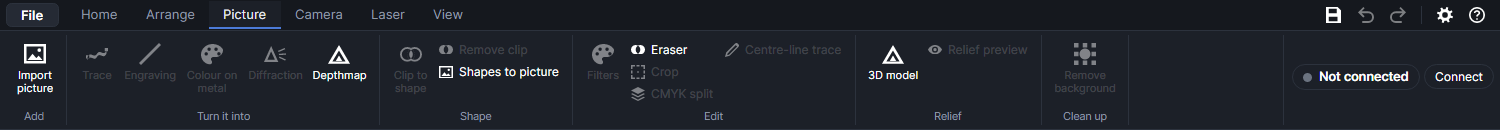
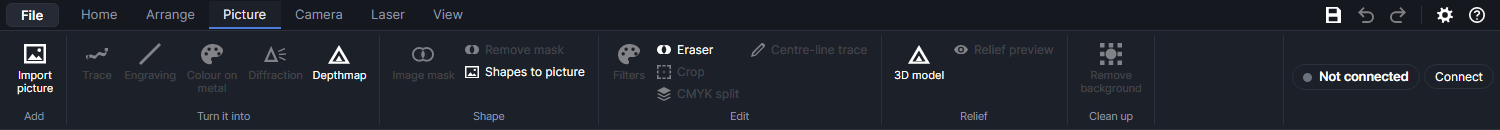
Image mask: only the masked part has to fit; pictures drawn under lines
"Clip to shape" is now "Image mask" (and "Remove mask"). A masked picture
in turned rows couldn't be sent: the check tested the corners of the turned
dot grid, which reach far past the masked part. It now checks each row's
first and last burned dot, where the head actually goes, and the frame keeps
to the masked part. The Selection panel's outside-the-work-area warning also
counts only the masked part.

Pictures are drawn under every line and shape, whatever their layer, and a
click on a line over a picture picks the line.

diff --git a/src/PhotonCanvas.App/MainWindow.axaml.cs b/src/PhotonCanvas.App/MainWindow.axaml.cs
@@ -633,8 +633,8 @@ public partial class MainWindow : Window
         _ribbon.ShowWhen(pwork.Large("Diffraction", "IcPrism", () => { if (SelectedPicture() is { } im) _ = Guard(() => MakeDiffraction(im)); }, "Turn the picture into tiny diffraction gratings (MOPA on polished stainless): it shimmers with rainbow colours as it tilts", HasPicture), () => _settings.ShowDiffraction);
         pwork.Large("Depthmap", "IcDepth", () => _ = Guard(() => MakeDepthmap(SelectedPicture())), "Make a relief depthmap with DepthCharge (select a picture first, or pick a file)");
         var pclip = picture.Group("Shape");
-        pclip.Large("Clip to shape", "IcIntersect", ClipPicture, "Select a picture and a closed shape: only the part of the picture inside it is shown and engraved", () => SelectedPicture() is not null || _doc.State.Shapes.Any(s => _doc.Selection.Contains(s.Id) && s is ImageShape));
-        pclip.Small("Remove clip", "IcExclude", () => { if (SelectedPicture() is { Clip: not null } im) _doc.Commit("Remove clip", Ops.Replace(_doc.State, im.WithClip(null)), [im.Id]); }, "Show and engrave the whole picture again", () => SelectedPicture() is { Clip: not null });
+        pclip.Large("Image mask", "IcIntersect", ClipPicture, "Select a picture and a closed shape: the shape masks the picture, so only the part inside it is shown and engraved", () => SelectedPicture() is not null || _doc.State.Shapes.Any(s => _doc.Selection.Contains(s.Id) && s is ImageShape));
+        pclip.Small("Remove mask", "IcExclude", () => { if (SelectedPicture() is { Clip: not null } im) _doc.Commit("Remove image mask", Ops.Replace(_doc.State, im.WithClip(null)), [im.Id]); }, "Take the image mask off: the whole picture is shown and engraved again", () => SelectedPicture() is { Clip: not null });
         var pedit = picture.Group("Edit");
         pedit.Large("Filters", "IcPalette", () => { if (SelectedPicture() is { } im) _ = Guard(() => FilterPicture(im)); }, "Greyscale, saturation, pencil sketch, emboss, comic, black and white, mosaic", HasPicture);
         ToolSmall(pedit, "Eraser", "IcExclude", Tool.Eraser, "Rub out parts of a picture by dragging over them (they turn white and aren't engraved)");
@@ -2006,14 +2006,14 @@ public partial class MainWindow : Window
         StatusText.Text = "The text follows the path. Alignment picks the start, middle or end; the path itself is still there (delete it or turn its layer's output off if it shouldn't be marked).";
     }
 
-    /// <summary>A picture and a closed shape selected: the picture is clipped to the shape (the shape stays, as a guide).</summary>
+    /// <summary>A picture and a closed shape selected: the shape becomes the picture's image mask (the shape stays, as a guide).</summary>
     void ClipPicture()
     {
         var sel = _doc.State.Shapes.Where(s => _doc.Selection.Contains(s.Id)).ToList();
         var pic = sel.OfType<ImageShape>().FirstOrDefault();
         var outline = sel.OfType<PathShape>().FirstOrDefault(p => p.World.Subpaths.Any(sp => sp.Closed));
         if (pic is null || outline is null) { StatusText.Text = "Select a picture and the closed shape to clip it to."; return; }
-        _doc.Commit("Clip picture", Ops.Replace(_doc.State, pic.WithClip(new Doc.PathGeometry(outline.World.Subpaths.Where(sp => sp.Closed)))), [pic.Id]);
+        _doc.Commit("Image mask", Ops.Replace(_doc.State, pic.WithClip(new Doc.PathGeometry(outline.World.Subpaths.Where(sp => sp.Closed)))), [pic.Id]);
         StatusText.Text = "Clipped: only the part inside the shape is engraved. The shape is still there (delete it or turn its layer's output off if it shouldn't be marked).";
     }
 

diff --git a/src/PhotonCanvas.App/CanvasView.cs b/src/PhotonCanvas.App/CanvasView.cs
@@ -474,6 +474,11 @@ public sealed partial class CanvasView : Control
         var selected = doc.Selection;
         var viewWorld = new Rect2(ToWorld(new Point(0, 0)).X, ToWorld(new Point(0, 0)).Y, ToWorld(new Point(Bounds.Width, Bounds.Height)).X, ToWorld(new Point(Bounds.Width, Bounds.Height)).Y);
         UpdateBatches(doc);
+        // Pictures first, whatever their layer: every line and shape shows on top of them, so a
+        // picture can be lined up with the outlines under it.
+        foreach (var shape in doc.State.Shapes)
+            if (shape is ImageShape im && layers.TryGetValue(im.LayerId, out var picLayer) && picLayer.Visible && im.Bounds.Intersects(viewWorld))
+                DrawPicture(ctx, im, picLayer, selected.Contains(im.Id), _hover == im.Id || _highlight == im.Id, px);
         foreach (var (id, chunks) in _batches)
         {
             if (!layers.TryGetValue(id, out var layer) || !layer.Visible) continue;
@@ -502,11 +507,6 @@ public sealed partial class CanvasView : Control
                         ctx.DrawGeometry(null, new Pen(new SolidColorBrush(Color.FromArgb(150, AccentColor.R, AccentColor.G, AccentColor.B)), 5 * px), hg);
                     ctx.DrawGeometry(null, new Pen(new SolidColorBrush(LayerColor(layer)), 2 * px), hg);
                 }
-                continue;
-            }
-            if (shape is ImageShape im)
-            {
-                if (im.Bounds.Intersects(viewWorld)) DrawPicture(ctx, im, layer, selected.Contains(im.Id), _hover == im.Id || _highlight == im.Id, px);
                 continue;
             }
             if (shape is not PathShape ps) continue;
@@ -825,16 +825,18 @@ public sealed partial class CanvasView : Control
         var w = ToWorld(screen);
         double tol = 5 / _scale;
         var layers = _doc.State.Layers.ToDictionary(l => l.Id);
-        // Topmost first; selected shapes win ties so a selection is easy to drag.
-        Shape? hit = null;
+        // Topmost first, pictures under everything else (as drawn); selected shapes win ties so a
+        // selection is easy to drag.
+        Shape? hit = null, picture = null;
         foreach (var s in _doc.State.Shapes.Reverse())
         {
             if (!layers.TryGetValue(s.LayerId, out var l) || !l.Visible || l.Locked || s.Locked) continue;
             if (!s.HitTest(w, tol, insideCounts: l.Mode == LayerMode.Fill)) continue;
             if (_doc.Selection.Contains(s.Id)) return s;
-            hit ??= s;
+            if (s is ImageShape) picture ??= s;
+            else hit ??= s;
         }
-        return hit;
+        return hit ?? picture;
     }
 
     /// <summary>0–7 = scale handles (clockwise from top-left), 8 = rotate, -1 = none.</summary>

diff --git a/src/PhotonCanvas.Core/GCode.cs b/src/PhotonCanvas.Core/GCode.cs
@@ -373,6 +373,24 @@ public sealed record DotBlock(
     /// <summary>The block a pass burns (see <see cref="PassBlocks"/>).</summary>
     public DotBlock ForPass(int pass) => PassBlocks is { Count: > 0 } pb && pass >= 1 ? pb[(pass - 1) % pb.Count] : this;
 
+    /// <summary>
+    /// The first and last burned dot of every row. The head only goes to burned dots, so
+    /// everything it visits lies between these (a grid turned to an angle has corners far
+    /// outside the picture that it never goes near).
+    /// </summary>
+    public IEnumerable<Vec2> RowEnds()
+    {
+        int w = Bitmap.Width;
+        for (int r = 0; r < Bitmap.Height; r++)
+        {
+            int first = Array.IndexOf(Bitmap.Bits, true, r * w, w);
+            if (first < 0) continue;
+            int last = Array.LastIndexOf(Bitmap.Bits, true, r * w + w - 1, w);
+            yield return At(first - r * w, r);
+            if (last != first) yield return At(last - r * w, r);
+        }
+    }
+
     /// <summary>Where dot (column, row) is on the bed.</summary>
     public Vec2 At(int c, int r)
     {
@@ -580,15 +598,9 @@ public sealed class Job
                         throw new JobException("The grey levels do not match the bitmap size.");
                     if (!b.Origin.IsFinite) throw new JobException("Bitmap position is not a valid number.");
                     double pitch = 25.4 / b.Dpi;
-                    // The corners of the pixel grid bound every dot.
-                    if (b.Bitmap.Width > 0 && b.Bitmap.Height > 0)
-                    {
-                        foreach (var pb in b.PassBlocks ?? [b])
-                        {
-                            int w = pb.Bitmap.Width - 1, h = pb.Bitmap.Height - 1;
-                            foreach (var corner in new[] { pb.At(0, 0), pb.At(w, 0), pb.At(0, h), pb.At(w, h) }) CheckPoint(corner, ctx);
-                        }
-                    }
+                    // Each row's first and last burned dot bound every dot the head goes to.
+                    foreach (var pb in b.PassBlocks ?? [b])
+                        foreach (var end in pb.RowEnds()) CheckPoint(end, ctx);
                     anyMotion |= b.Bitmap.Bits.Any(v => v);
                     break;
             }

diff --git a/tests/PhotonCanvas.Tests/PieceSplitTests.cs b/tests/PhotonCanvas.Tests/PieceSplitTests.cs
@@ -130,6 +130,32 @@ public class PieceSplitTests
     }
 
     [Fact]
+    public void AClippedPictureInTurnedRowsStillFitsTheWorkArea()
+    {
+        // Rows at 37°, turned 37° more each pass: the turned grid's corners reach far past the board
+        // (above the work area), but the head only goes to dots on the board.
+        var (s, pieces, art, _, _) = FourBoards();
+        var plain = Layer.Default(2, LayerMode.Image);
+        var picLayer = plain with { Name = "Photo", Dpi = 100, FillAngleDeg = 37, AngleStepDeg = 37, Laser = plain.Laser with { Passes = 3 } };
+        s = Ops.AddLayer(s, picLayer);
+        var px = new byte[8 * 4 * 4];
+        for (int i = 0; i < px.Length; i += 4) { px[i] = px[i + 1] = px[i + 2] = 40; px[i + 3] = 255; }
+        var photo = new ImageShape { Name = "Photo", LayerId = picLayer.Id, Source = ImageSource.FromEncoded(new Core.Imaging.RasterImage(8, 4, px).ToPng()), SizeMm = new Vec2(400, 150) };
+        s = Ops.AddShapes(s, [photo]);
+        var r = PieceSplit.Split(s, pieces, new HashSet<Guid>(art) { photo.Id }, 220, 220);
+        for (int k = 1; k <= 4; k++)
+        {
+            var page = Pages.SwitchTo(r.State, k);
+            page = page with { Layers = [.. page.Layers.Select(l => l with { Output = l.Name == "Photo" })] };
+            var board = MaterialOutline.On(page).Single().Bounds;
+            var built = JobBuilder.Build(page, new JobOptions());
+            var dots = Assert.IsType<DotBlock>(Assert.Single(built.Job.Blocks));
+            Assert.Equal(3, dots.PassBlocks!.Count);
+            Assert.True(board.Inflate(1.5).Contains(built.Bounds), $"piece {k}: framed {built.Bounds}, board {board}");
+        }
+    }
+
+    [Fact]
     public void PiecesAreReadRowByRow()
     {
         var s = DocState.New();

diff --git a/src/PhotonCanvas.App/PropertiesPanel.cs b/src/PhotonCanvas.App/PropertiesPanel.cs
@@ -391,7 +391,8 @@ public sealed class PropertiesPanel : UserControl
 
         // Only what's sent has to be on the bed (material outlines, other pieces and guides may hang off it).
         var sentIds = _doc.State.Shapes.Where(s => sel.Contains(s.Id) && _doc.State.FindLayer(s.LayerId) is { Output: true }).Select(s => s.Id).ToHashSet();
-        var sb = _doc.State.Bounds(sentIds);
+        // A masked picture only has to fit where it shows.
+        var sb = _doc.State.Shapes.Where(s => sentIds.Contains(s.Id)).Aggregate(Rect2.Empty, (r, s) => r.Union(s is ImageShape im ? im.ShownBounds : s.Bounds));
         bool outside = sentIds.Count > 0 && (sb.MinX < -1e-6 || sb.MinY < -1e-6 || sb.MaxX > _machine.FieldW + 1e-6 || sb.MaxY > _machine.FieldH + 1e-6);
         _selInfo.Text = (sel.Count == 1 ? "1 shape selected" : $"{sel.Count} shapes selected") +
                         (outside ? ". ⚠ Partly outside the work area – it can't be sent like this." : ".");

diff --git a/src/PhotonCanvas.Doc/JobBuilder.cs b/src/PhotonCanvas.Doc/JobBuilder.cs
@@ -819,6 +819,12 @@ public static class JobBuilder
             }
         });
         var area = Rect2.Bounds([Pos(0, 0), Pos(cols - 1, 0), Pos(0, rows - 1), Pos(cols - 1, rows - 1)]);
+        if (angleDeg != 0)
+        {
+            // A turned grid's box reaches well past the picture; only the part it shows is framed.
+            var shown = b.Inflate(pitch);
+            area = new Rect2(Math.Max(area.MinX, shown.MinX), Math.Max(area.MinY, shown.MinY), Math.Min(area.MaxX, shown.MaxX), Math.Min(area.MaxY, shown.MaxY));
+        }
         if (tone.Sharpen > 0) Core.Imaging.Dither.Sharpen(grey, cols, rows, tone.Sharpen, Math.Max(1, (int)Math.Round(tone.SharpenRadiusMm / pitch)));
         var bitmap = new Bitmap(cols, rows);
         if (layer.ImageMode == ImageEngraveMode.Grayscale)

diff --git a/docs/help/pictures.md b/docs/help/pictures.md
@@ -11,13 +11,13 @@ carved as a relief.
 
 The tab's name turns blue when exactly one picture is selected (click it on the work area or in the
 Layers panel). Buttons that work on a picture stay grey until then. A picture selected together with
-other shapes doesn't count, except for **Clip to shape**.
+other shapes doesn't count, except for **Image mask**.
 
 | Group | Buttons |
 |---|---|
 | Add | [Import picture](#import-a-picture) |
 | Turn it into | [Trace](#trace), [Engraving](#engraving-lines), [Colour on metal](#colour-on-metal), [Diffraction](#diffraction), [Depthmap](#depthmap-with-depthcharge) |
-| Shape | [Clip to shape](#clip-to-shape), [Remove clip](#clip-to-shape), [Shapes to picture](#shapes-to-picture) |
+| Shape | [Image mask](#image-mask), [Remove mask](#image-mask), [Shapes to picture](#shapes-to-picture) |
 | Edit | [Filters](#filters), [Eraser](#eraser), [Crop](#crop), [CMYK split](#cmyk-split), [Centre-line trace](#centre-line-trace) |
 | Relief | [3D model](#3d-model-relief), [Relief preview](#relief-preview) |
 | Clean up | [Remove background](#remove-background) |
@@ -419,24 +419,28 @@ layer's settings. The window can stay open while you work.
 
 ![The Relief preview window](images/window-picture-relief-preview.png)
 
-## Clip to shape
+## Image mask
 
-**Clip to shape** shows and engraves only the part of a picture inside a closed shape: a photo in a
-circle, a heart, a frame.
+**Image mask** shows and engraves only the part of a picture inside a closed shape: a photo in a
+circle, a heart, a frame. The picture itself isn't changed.
 
 1. Draw or import the closed shape over the picture.
 2. Select the picture and the shape together (`Shift`+click).
-3. Click **Clip to shape**.
+3. Click **Image mask**.
 
-- The clip moves, resizes and turns with the picture, and survives filters, crop and the eraser.
-- Holes in the shape stay holes in the picture. A new clip replaces the old one.
+- The mask moves, resizes and turns with the picture, and survives filters, crop and the eraser.
+- Holes in the shape stay holes in the picture. A new mask replaces the old one.
+- Only the masked part has to fit the work area: the rest of the picture can hang outside it, even
+  when its rows are turned to an angle (**Split onto pieces** relies on this).
+- Pictures are always drawn under lines and shapes, so the outline you line a picture up with stays
+  in sight.
 - The shape itself stays, as a guide. Delete it, or turn its layer's output off, if it shouldn't be
   marked.
 - The picture's own engraving (dots or depth slices) and **Engraving** lines follow the clip.
   **Trace**, **Centre-line trace**, **Colour on metal**, **Diffraction**, **Depthmap** and **CMYK
   split** use the whole picture.
 
-**Remove clip** shows and engraves the whole picture again (select the clipped picture first).
+**Remove mask** shows and engraves the whole picture again (select the masked picture first).
 
 ## Shapes to picture
 
@@ -515,7 +519,7 @@ elsewhere. Each goes on its own new Picture layer (**Cyan ·**, **Magenta ·**, 
   pause between ([Work area](work-area.md)).
 - The plates are made from the picture as its tone settings show it: **Brightness**, **Contrast**,
   **Gamma** and **Invert** are applied to the colours first, so each plate starts with those at
-  their defaults. **Sharpen** is copied onto each plate, and a clip ([Clip to shape](#clip-to-shape))
+  their defaults. **Sharpen** is copied onto each plate, and an image mask ([Image mask](#image-mask))
   is kept. The original picture stays; turn its layer's output off.
 
 ## Remove background

diff --git a/docs/help/canvas.md b/docs/help/canvas.md
@@ -13,10 +13,13 @@ is on [Drawing](drawing.md); changing their outlines (weld, offset, trim…) is 
 - The rulers along the top and left show where you are. A blue mark on each follows the cursor,
   and the status bar shows the cursor's exact position.
 - Shapes can sit on the darker surround outside the field, but a job with anything outside the
-  field can't be sent: the Selection panel warns "⚠ Partly outside the work area".
+  field can't be sent: the Selection panel warns "⚠ Partly outside the work area". A picture with
+  an [image mask](pictures.md#image-mask) only counts where it shows.
 - Each shape is drawn in its layer's colour. Shapes on **Engrave** layers are tinted inside.
   Layers that aren't sent to the laser (output off) are drawn faded; hidden layers aren't drawn.
   The shape under the cursor is drawn a little thicker.
+- Pictures are drawn under everything else, whatever their layer: lines and shapes always show on
+  top, so a picture can be lined up with them.
 - The selection has a dashed blue box with eight square handles, a round handle above it for
   turning, and its size underneath, for example "140 × 100 mm".
 
@@ -71,8 +74,8 @@ The Select tool (Home → **Select**, `V`) is the one you use most: it selects, 
 turns. `Esc` in any other tool brings you back to it.
 
 - **Click** a shape to select it. Click on its outline; on an Engrave layer, and on a picture,
-  anywhere inside counts too. Where shapes overlap the top one is picked, but an already selected
-  shape wins, so a selection is easy to drag.
+  anywhere inside counts too. Where shapes overlap the top one is picked (a line over a picture
+  beats the picture), but an already selected shape wins, so a selection is easy to drag.
 - A shape that's in a group brings its whole group. Hold `Alt` while clicking to pick just that
   one shape.
 - `Shift`+click adds a shape to the selection, or takes it out.

diff --git a/docs/help/tutorials/pic-clip.md b/docs/help/tutorials/pic-clip.md
@@ -1,25 +1,26 @@
-# Clip a picture to a shape
+# Mask a picture with a shape
 <!-- category: Pictures -->
-<!-- summary: Show and engrave only the part of a picture inside a closed shape. -->
-<!-- page: pictures.md#clip-to-shape -->
+<!-- summary: An image mask: show and engrave only the part of a picture inside a closed shape. -->
+<!-- page: pictures.md#image-mask -->
 <!-- order: 90 -->
-Clipping keeps a picture inside a shape, such as a photo in a circle or a heart, without changing
-the picture itself. The clip can be taken off again at any time.
+An image mask keeps a picture inside a shape, such as a photo in a circle or a heart, without
+changing the picture itself. The mask can be taken off again at any time.
 
 ## Put a shape over a picture
 <!-- target: canvas -->
 Draw a closed shape over a picture (Home tab). No picture yet? **Picture → Import picture**
-(`Ctrl+J`).
+(`Ctrl+J`). The shape's outline shows on top of the picture, so you can see where it goes.
 
 ## Select both
 <!-- target: canvas -->
 <!-- wait: selection:2 -->
 Click the picture, then `Shift`+click the shape.
 
-## Clip it
-<!-- target: ribbon:Picture/Clip to shape -->
-Click **Clip to shape**. Only the part inside is shown and engraved; the shape stays as a guide.
+## Mask it
+<!-- target: ribbon:Picture/Image mask -->
+Click **Image mask**. Only the part inside is shown and engraved; the shape stays as a guide. The
+rest of the picture may hang outside the work area: only the masked part has to fit.
 
-## Take the clip off
-<!-- target: ribbon:Picture/Remove clip -->
-With the picture selected, **Remove clip** brings back the whole picture.
+## Take the mask off
+<!-- target: ribbon:Picture/Remove mask -->
+With the picture selected, **Remove mask** brings back the whole picture.

diff --git a/docs/help/editing-shapes.md b/docs/help/editing-shapes.md
@@ -21,8 +21,8 @@ Most of these commands replace a shape's outline with a new one, and that has si
 - **Editable shapes** (rectangles, ellipses, polygons and stars that keep their size, corner radius
   or points, see [Drawing](drawing.md)) become plain outlines in the same way.
 - **Pictures** are never changed by these commands; selected along with vector shapes, they're
-  left as they are. To show only part of a picture, use **Clip to shape** on the Picture tab
-  ([Pictures](pictures.md)).
+  left as they are. To show only part of a picture, use **Image mask** on the Picture tab
+  ([Pictures](pictures.md#image-mask)).
 - **Hand-placed tabs and start points** are dropped from a shape whose outline is rebuilt. Place
   them last. Moving, turning and resizing keep them.
 

diff --git a/docs/help/work-area.md b/docs/help/work-area.md
@@ -287,7 +287,8 @@ A page for each piece, after the page you split from (which is left as it was): 
   - On an **Engrave** layer, the part of its area on the piece.
   - On a **Cut** or **Score** layer, the stretch of its line on the piece (an open line, so a circle
     across the corner of four boards becomes four arcs).
-  - A picture is clipped to the piece, and only that part is engraved.
+  - A picture gets the piece as its [image mask](pictures.md#image-mask), and only that part is
+    engraved; the rest may hang outside the work area.
 - **Everything else**, greyed on a layer called **Other pieces** that's never sent: the other
   pieces' outlines and the whole design, so you can see how this piece fits with the rest. It can
   run off the bed.

diff --git a/docs/help/glossary.md b/docs/help/glossary.md
@@ -81,6 +81,8 @@ explained in full.
 - **Highly reflective material**: a layer setting for polished metals and the like. The MOPA then
   keeps out of the frequencies where light bouncing back could harm it. See
   [Layer settings](layer-settings.md).
+- **Image mask**: a closed shape that a picture shows through: only the part inside is shown and
+  engraved, and only that part has to fit the work area. See [Pictures](pictures.md#image-mask).
 - **Job**: what's sent to the machine: every visible layer with output on, of the page on screen,
   in order. The job bar shows it. See [Running a job](running-jobs.md).
 - **Kerf**: the width of the cut line. The **Kerf (mm)** setting moves outlines out by half of it,
